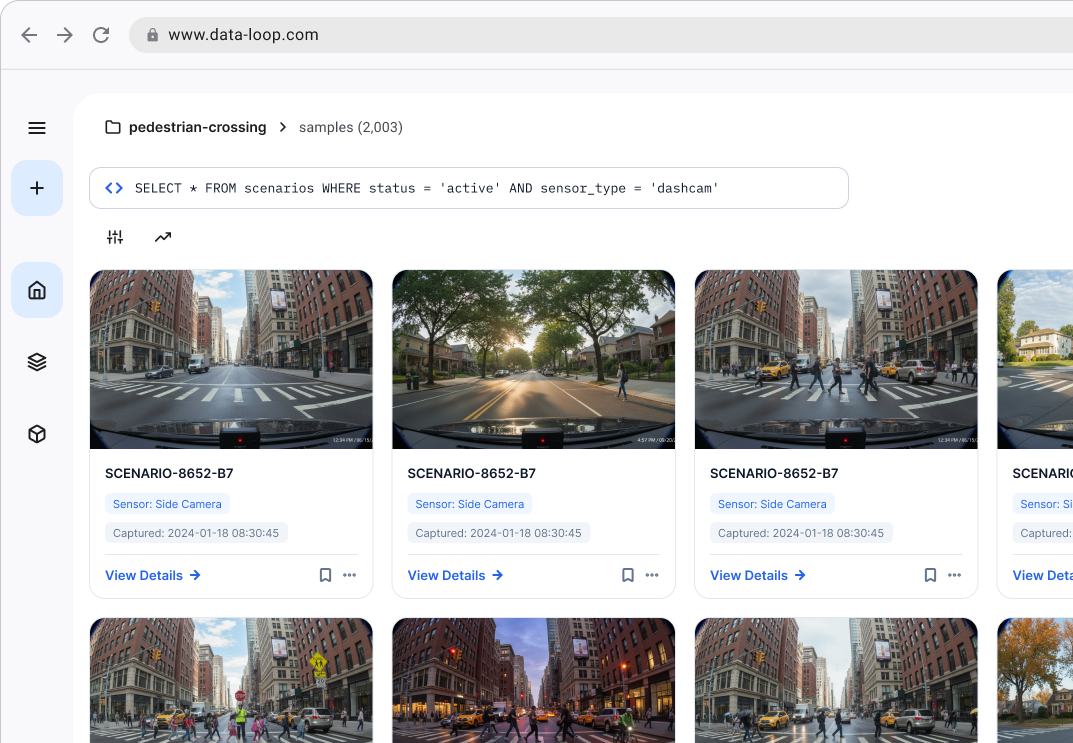
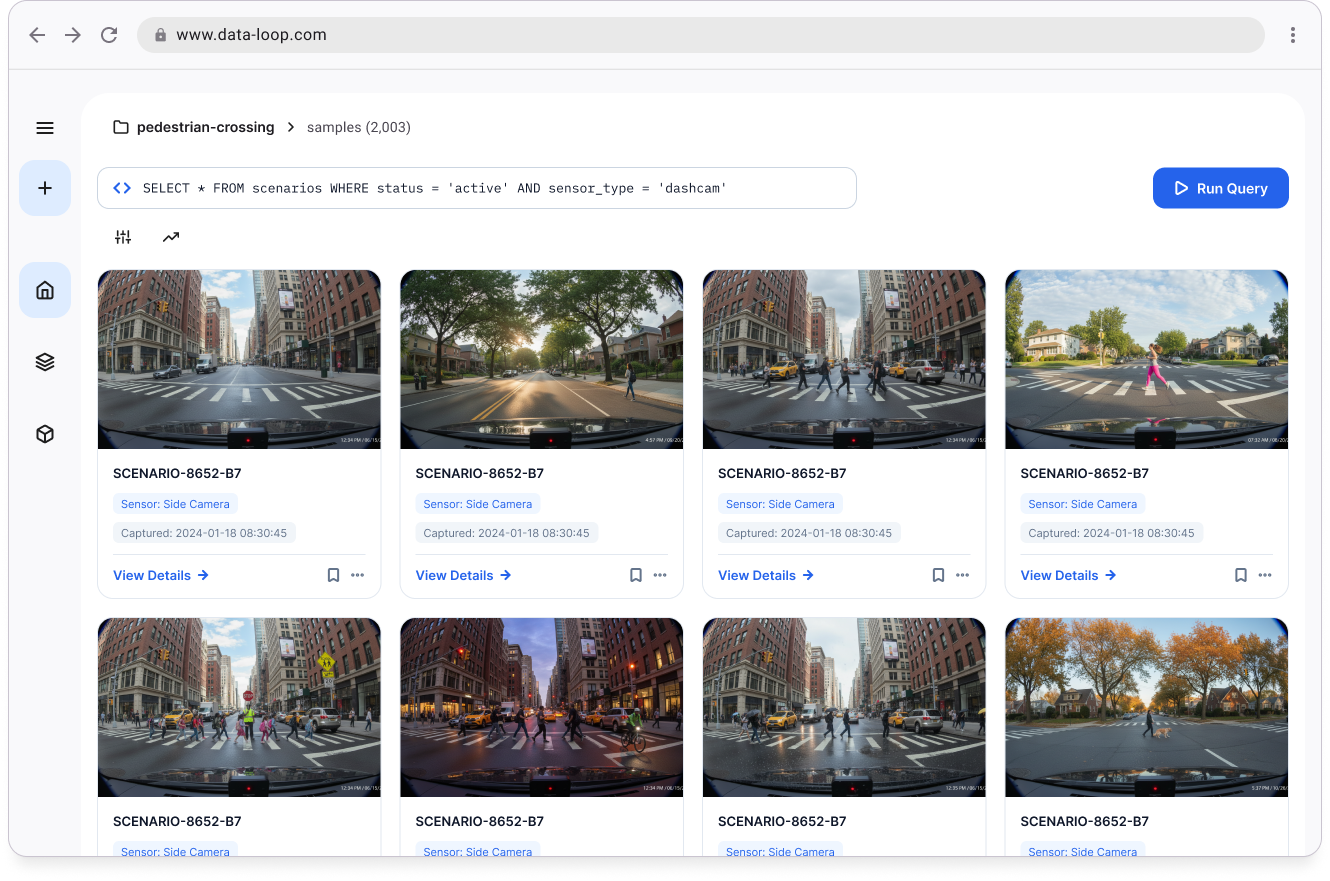
Refine case study navigation and portfolio cards

diff --git a/src/data/assets.ts b/src/data/assets.ts
@@ -5,6 +5,7 @@ export const assets = {
     auroraThumbnail: "/assets/thumbnails/aurora-thumbnail.png",
     tecanThumbnail: "/assets/thumbnails/tecan-thumbnail.png",
     mlLoopThumbnail: "/assets/mlloop/scenario-workspace-hero.png",
+    dataPlatformHubThumbnail: "/assets/thumbnails/data-platform-hub-thumbnail.png",
     contourOne: "/assets/framer/home/JvD3j2vtI3LIFJOEemhBXGdk.avif",
     contourTwo: "/assets/framer/home/mENJLcN1AqCTYHCft70MEpaXQY.avif",
   },
